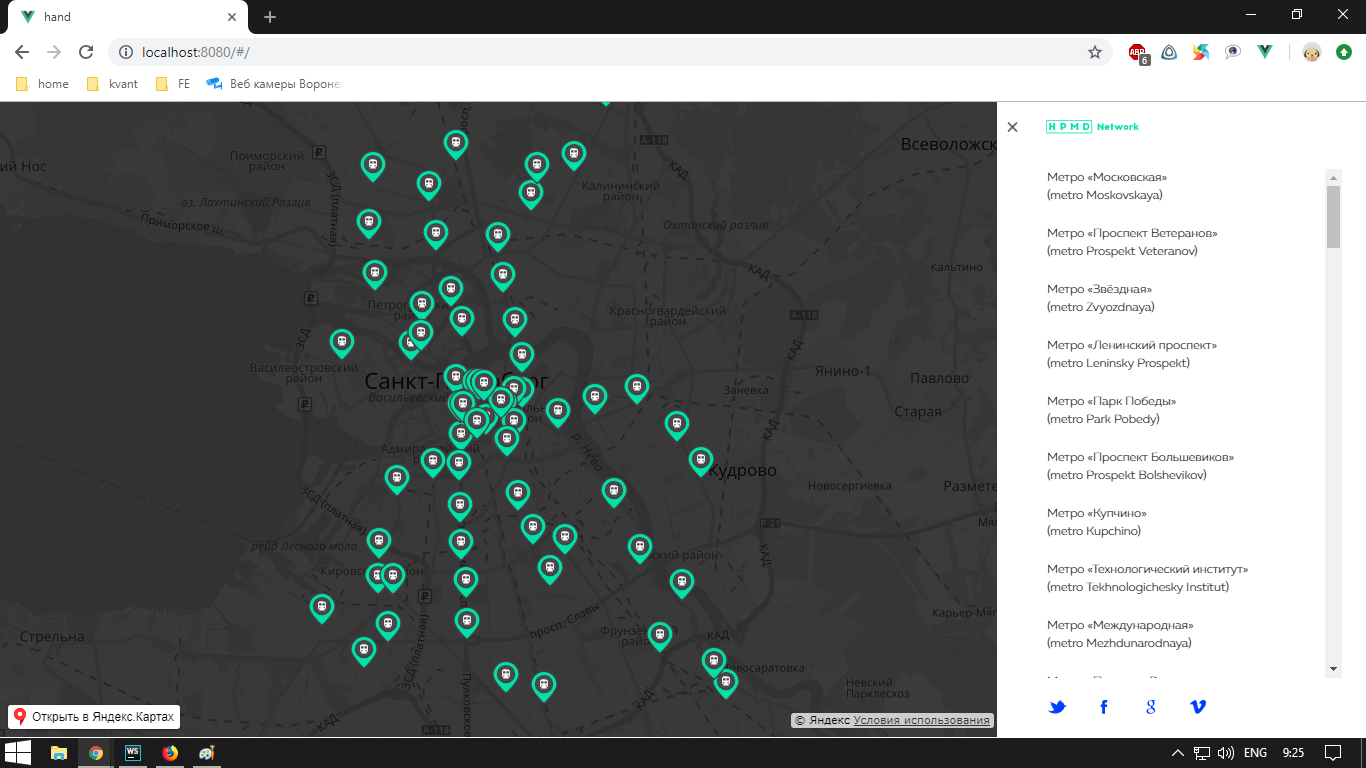
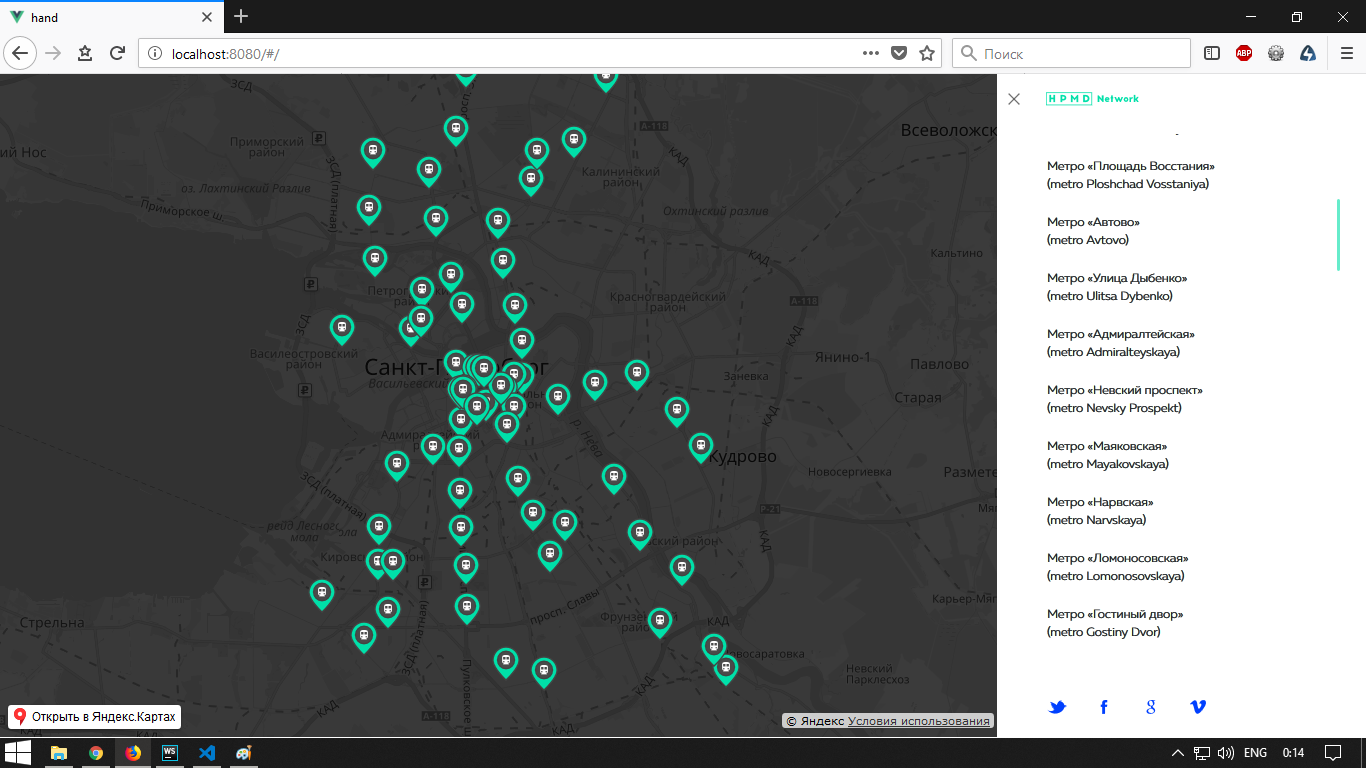
scrollbar

diff --git a/public/styles/vue2-perfect-scrollbar.css b/public/styles/vue2-perfect-scrollbar.css
@@ -1,0 +1,108 @@
+/*
+ * Container style
+ */
+.ps {
+  overflow: hidden !important;
+  overflow-anchor: none;
+  -ms-overflow-style: none;
+  touch-action: auto;
+  -ms-touch-action: auto;
+}
+/*
+ * Scrollbar rail styles
+ */
+.ps__rail-x {
+  display: none;
+  opacity: 0;
+  transition: background-color .2s linear, opacity .2s linear;
+  -webkit-transition: background-color .2s linear, opacity .2s linear;
+  height: 15px;
+  /* there must be 'bottom' or 'top' for ps__rail-x */
+  bottom: 0px;
+  /* please don't change 'position' */
+  position: absolute;
+}
+.ps__rail-y {
+  display: none;
+  opacity: 0;
+  transition: background-color .2s linear, opacity .2s linear;
+  -webkit-transition: background-color .2s linear, opacity .2s linear;
+  width: 10px;
+  /* there must be 'right' or 'left' for ps__rail-y */
+  right: 0;
+  /* please don't change 'position' */
+  position: absolute;
+}
+.ps--active-x > .ps__rail-x,
+.ps--active-y > .ps__rail-y {
+  display: block;
+  background-color: transparent;
+}
+.ps:hover > .ps__rail-x,
+.ps:hover > .ps__rail-y,
+.ps--focus > .ps__rail-x,
+.ps--focus > .ps__rail-y,
+.ps--scrolling-x > .ps__rail-x,
+.ps--scrolling-y > .ps__rail-y {
+  opacity: 0.6;
+}
+.ps .ps__rail-x:hover,
+.ps .ps__rail-y:hover,
+.ps .ps__rail-x:focus,
+.ps .ps__rail-y:focus,
+.ps .ps__rail-x.ps--clicking,
+.ps .ps__rail-y.ps--clicking {
+  background-color: #eee;
+  opacity: 0.9;
+}
+/*
+ * Scrollbar thumb styles
+ */
+.ps__thumb-x {
+  background-color: #aaa;
+  border-radius: 6px;
+  transition: background-color .2s linear, height .2s ease-in-out;
+  -webkit-transition: background-color .2s linear, height .2s ease-in-out;
+  height: 6px;
+  /* there must be 'bottom' for ps__thumb-x */
+  bottom: 2px;
+  /* please don't change 'position' */
+  position: absolute;
+}
+.ps__thumb-y {
+  background-color: #00e0a9;
+  border-radius: 6px;
+  transition: background-color .2s linear, width .2s ease-in-out;
+  -webkit-transition: background-color .2s linear, width .2s ease-in-out;
+  width: 3px;
+  /* there must be 'right' for ps__thumb-y */
+  right: 2px;
+  /* please don't change 'position' */
+  position: absolute;
+}
+.ps__rail-x:hover > .ps__thumb-x,
+.ps__rail-x:focus > .ps__thumb-x,
+.ps__rail-x.ps--clicking .ps__thumb-x {
+  background-color: #999;
+  height: 11px;
+}
+.ps__rail-y:hover > .ps__thumb-y,
+.ps__rail-y:focus > .ps__thumb-y,
+.ps__rail-y.ps--clicking .ps__thumb-y {
+  background-color: #00c495;
+  width: 6px;
+}
+/* MS supports */
+@supports (-ms-overflow-style: none) {
+  .ps {
+    overflow: auto !important;
+  }
+}
+@media screen and (-ms-high-contrast: active), (-ms-high-contrast: none) {
+  .ps {
+    overflow: auto !important;
+  }
+}
+.ps {
+    position: relative;
+}

diff --git a/src/components/stations.vue b/src/components/stations.vue
@@ -1,60 +1,51 @@
 <template>
-	<div class="baron baron__root baron__clipper _MODIFIER" ref="baron__root">
-		<div class="baron__scroller" ref="baron__scroller">
-			<div v-for="st in getServerDataStations" :id="st.id">
-				<p>{{st.name.split("»")[0]}}»</p>
-				<p>{{st.name.split("»")[1]}}</p>
-			</div>
-		</div>
-		<div class="baron__track" ref="baron__track">
-			<div class="baron__free">
-				<div class="baron__bar" ref="baron__bar"></div>
-			</div>
+	<div class="root" ref="root">
+		<div class="scroller">
+			<perfect-scrollbar>
+				<div v-for="st in getServerDataStations" :id="st.id">
+					<p>{{st.name.split("»")[0]}}»</p>
+					<p>{{st.name.split("»")[1]}}</p>
+				</div>
+			</perfect-scrollbar>
 		</div>
 	</div>
 </template>
 <script>
-	import { mapGetters } from "vuex";
-	import baron          from "baron";
+	import { mapGetters }       from "vuex";
+	import { PerfectScrollbar } from "vue2-perfect-scrollbar";
+	import "../../public/styles/vue2-perfect-scrollbar.css";
 
 	export default {
-		name:     "stations",
-		computed: {
+		name:       "stations",
+		computed:   {
 			...mapGetters(["getServerDataStations"])
 		},
-		mounted() {
-			baron(
-			  {
-				  root:           this.$refs.baron__root,
-				  scroller:       this.$refs.baron__scroller,
-				  bar:            this.$refs.baron__bar,
-				  track:          this.$refs.baron__track,
-				  barOnCls:       "_scrollbar",
-				  scrollingCls:   "_scrolling",
-				  draggingCls:    "_dragging",
-				  direction:      "h",
-				  resizeDebounce: .2,
-				  rtl:            true
-			  }
-			);
-			// console.log(this.$refs.container.scrollHeight);
+		components: {
+			PerfectScrollbar
 		},
-		methods:  {}
+		mounted() {
+		},
+		methods:    {}
 	};
 </script>
 <style scoped lang="scss">
-	.baron__root {
-		margin-left: 50px;
+	.root {
 		width: 80%;
 		height: 80%;
+		margin-left: 50px;
 		font-size: 12px;
-		position: relative;
-		
-		div {
-			margin-bottom: 20px;
-			p {
-				margin: 0;
-			}
+		overflow: hidden;
+		.scroller {
+			height: 100%;
+		}
+	}
+	.ps {
+		height: 100%;
+	}
+	div {
+		margin-bottom: 20px;
+		p {
+			margin: 0;
 		}
 	}
 </style>
